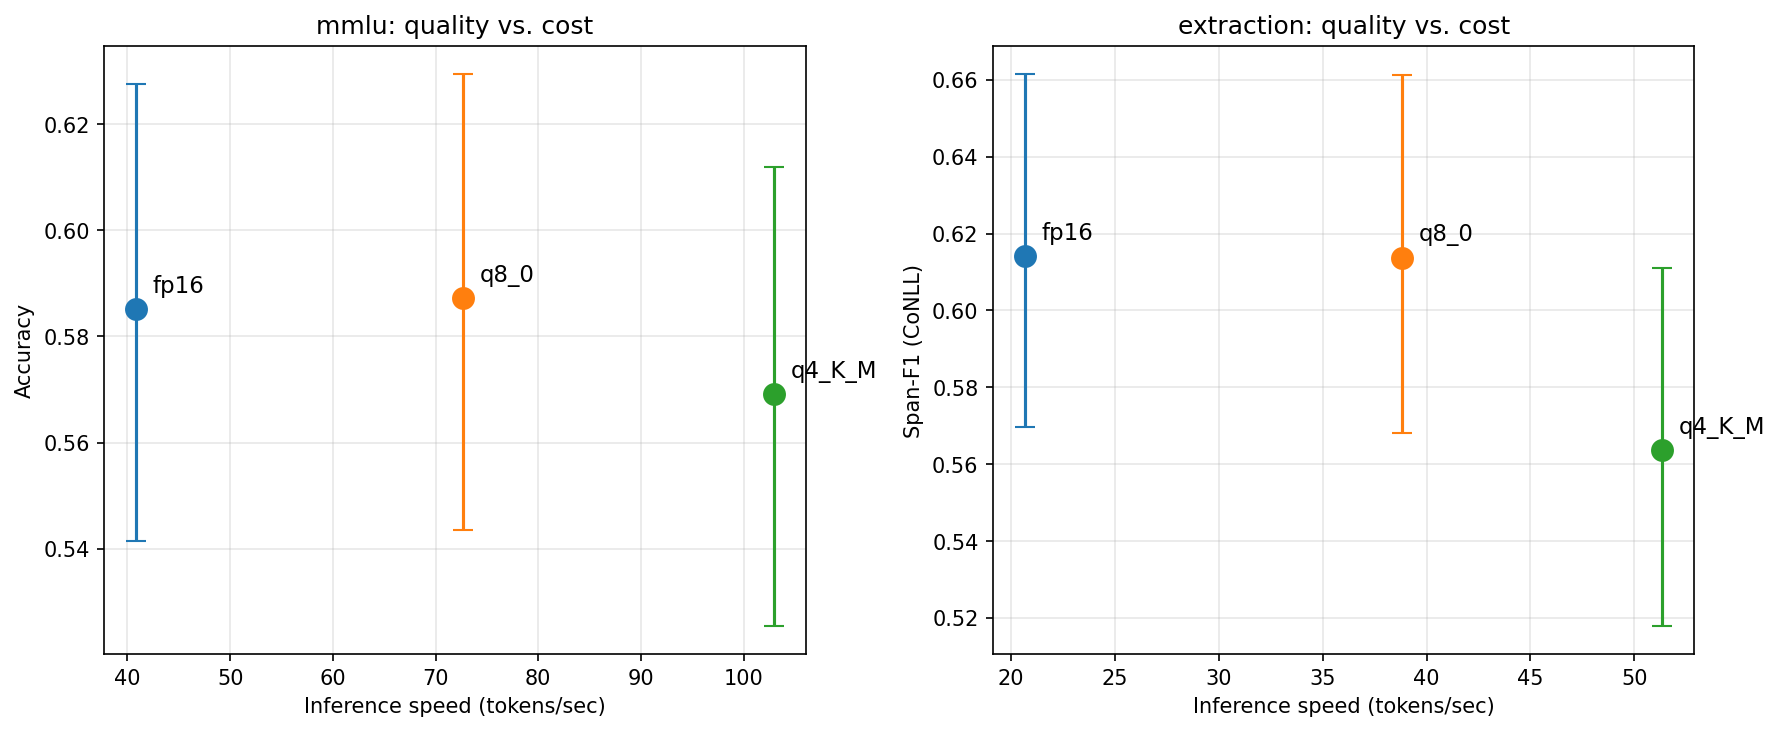
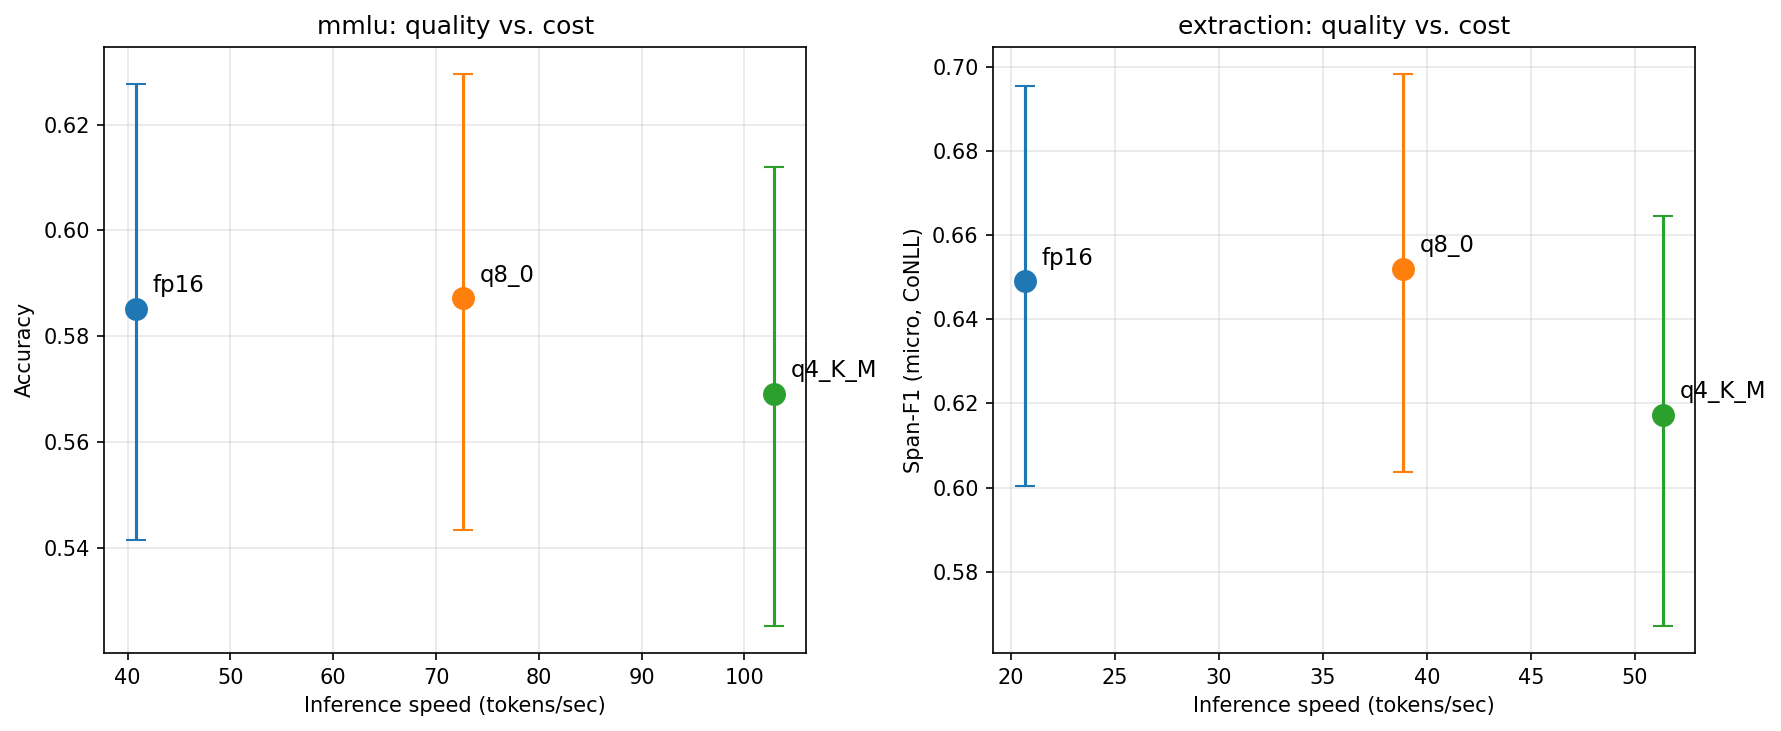
Quantization case study: sync to corrected metrics (micro-F1 primary, TOST)
Mirrors the study repo's senior-review response so the portfolio doesn't carry
the stale claims:

- NER headline now leads with canonical corpus micro-F1 (Q4 −3.2pp, p_adj=0.032),
  with per-sentence macro-F1 (−5.0pp) as the brittleness view. Drops the
  incorrect "canonical CoNLL metric" label on the macro number.
- "Statistically indistinguishable" → a pre-declared ±1pp TOST equivalence claim
  for Q8_0 ≈ FP16 (p_TOST 0.019 MMLU / 0.002 NER macro).
- Failure mode rewritten from "names the wrong entities / semantic not syntactic"
  to the evidence-backed mechanism: over-extraction (precision −4.1pp vs recall
  −0.9pp) concentrated on entity-free sentences, which is also why macro > micro.
- Reflections add the metric-correction story; methodology pillar adds micro-F1,
  TOST, and the provenance manifest. Pareto plot refreshed (NER axis = micro-F1).

diff --git a/src/content/work.ts b/src/content/work.ts
@@ -271,8 +271,8 @@ export const projects: Project[] = [
     metrics: [
       "3 arms × 800 examples (n=2,400)",
       "Paired bootstrap + Holm correction",
-      "Q8_0 ≈ FP16 at 1.8× throughput",
-      "Q4_K_M: −5.0pp F1 on NER (p_adj=0.003)",
+      "Q8_0 ≡ FP16 (TOST, ±1pp margin)",
+      "Q4_K_M: −3.2pp micro-F1 on NER (p_adj=0.032)",
     ],
     artifact: {
       problem: {
@@ -302,7 +302,7 @@ export const projects: Project[] = [
         {
           stakeholder: "Failure-mode characterization",
           need: "Not just \"Q4 is worse\" but how it fails — so downstream teams know what to guard against.",
-          evidence: "Q4 emits well-formed JSON at a slightly higher parse rate than FP16, but selects the wrong entities — the brittleness is semantic, not syntactic.",
+          evidence: "Q4 emits well-formed JSON at a slightly higher parse rate than FP16, but over-extracts — the NER hit is a precision loss (−4.1pp), not recall, concentrated on entity-free sentences.",
         },
       ],
       decisions: {
@@ -348,7 +348,7 @@ export const projects: Project[] = [
           {
             title: "Statistical methodology built for the paired design",
             detail:
-              "Wilson 95% CI for binary outcomes (MMLU accuracy); bootstrap percentile CI for continuous (NER span-F1). Pairwise differences via paired bootstrap; p-values via McNemar (binary) or paired bootstrap centered under H0 (continuous). Holm-Bonferroni applied per task across the three pairwise tests. Cluster-bootstrap on subjects for the MMLU overall CI.",
+              "Wilson 95% CI for MMLU accuracy; corpus micro-F1 (the canonical CoNLL metric) as the primary NER number, with per-sentence macro-F1 reported alongside as a brittleness view. Pairwise differences via paired bootstrap; p-values via McNemar (binary) or paired bootstrap centered under H0. Holm-Bonferroni per task. Cluster-bootstrap on subjects for the MMLU overall CI. Equivalence (Q8≈FP16) stated as a TOST result against a pre-declared ±1pp margin, not as the absence of a significant difference.",
           },
           {
             title: "Decision framework as deliverable",
@@ -367,13 +367,13 @@ export const projects: Project[] = [
           },
           {
             metric: "Q8_0 vs FP16",
-            after: "Statistically indistinguishable",
-            note: "MMLU Δ = −0.2pp [−0.8, +0.4] · NER Δ = +0.0003 [−0.006, +0.007]",
+            after: "Practically equivalent (TOST, ±1pp)",
+            note: "MMLU p_TOST=0.019 · NER macro p_TOST=0.002 · a positive equivalence claim, not non-significance",
           },
           {
             metric: "Q4_K_M vs FP16 on NER",
-            after: "−5.0pp F1 (significant)",
-            note: "95% CI: [+2.1, +8.1pp] · Holm-adjusted p = 0.003",
+            after: "−3.2pp micro-F1 (significant)",
+            note: "canonical CoNLL micro-F1, 95% CI [0.7, 5.7pp], p_adj=0.032 · −5.0pp on per-sentence macro-F1 (p_adj=0.003)",
           },
           {
             metric: "Throughput / memory at Q8_0",
